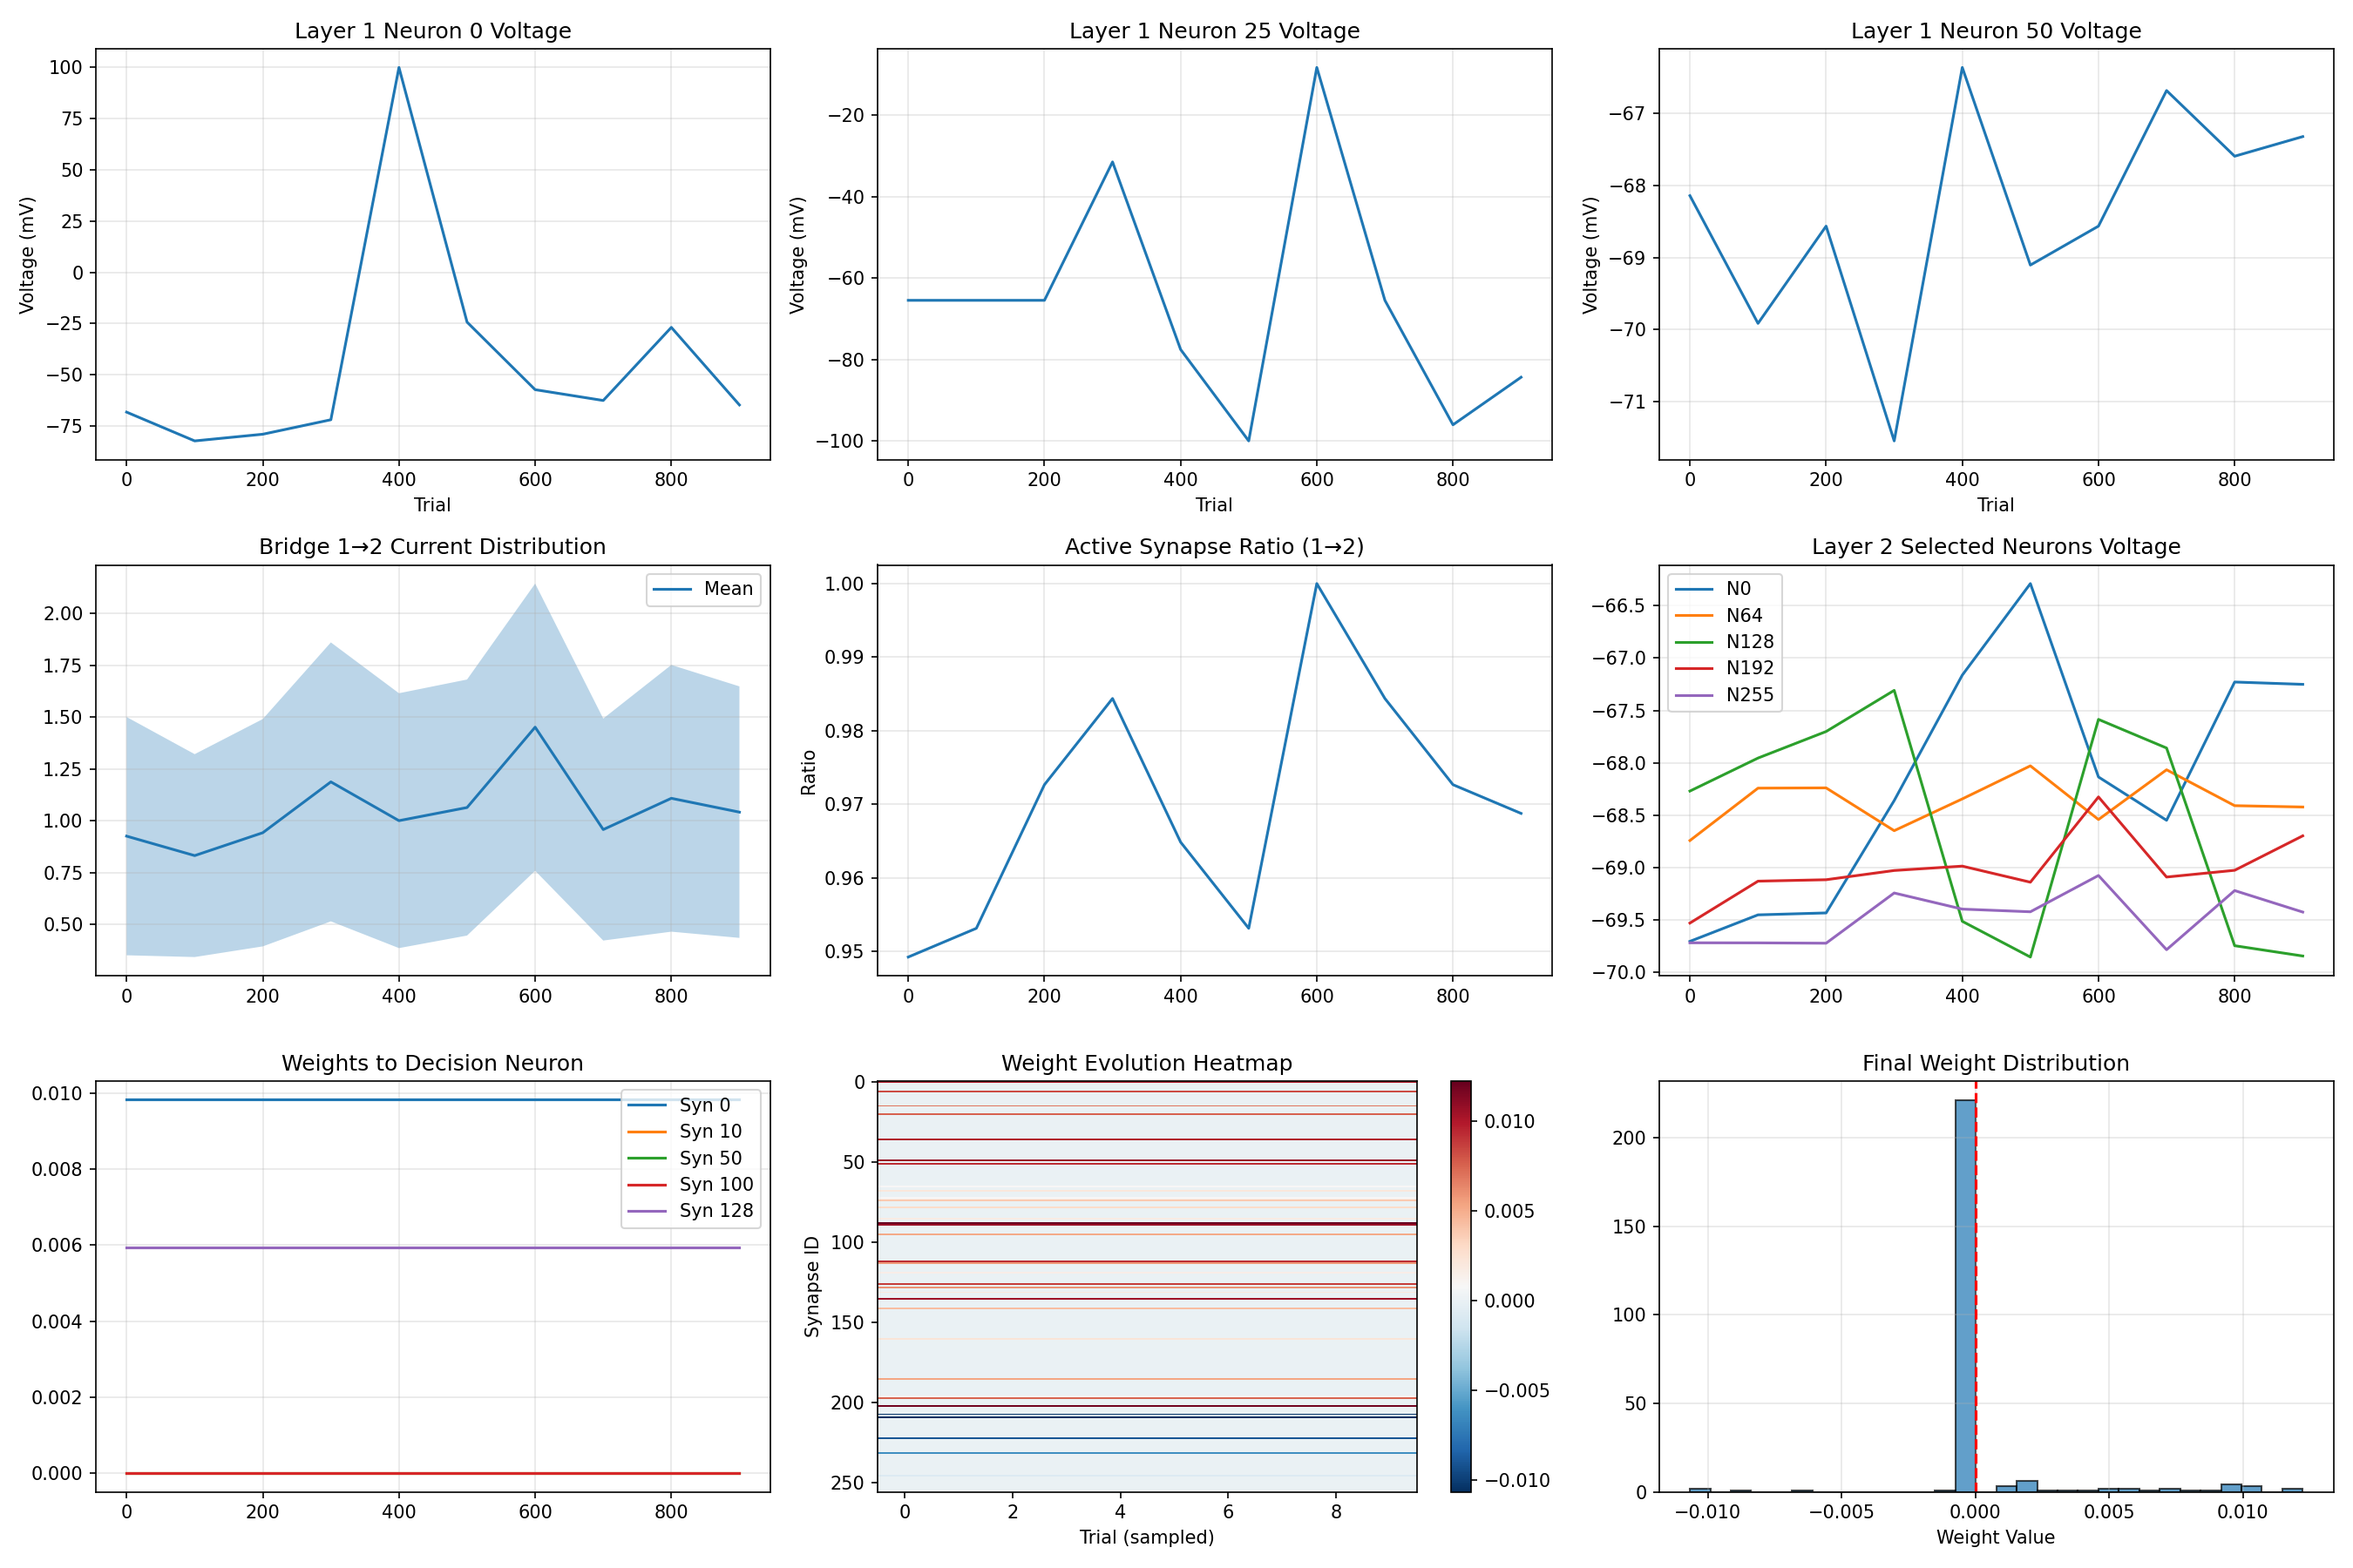
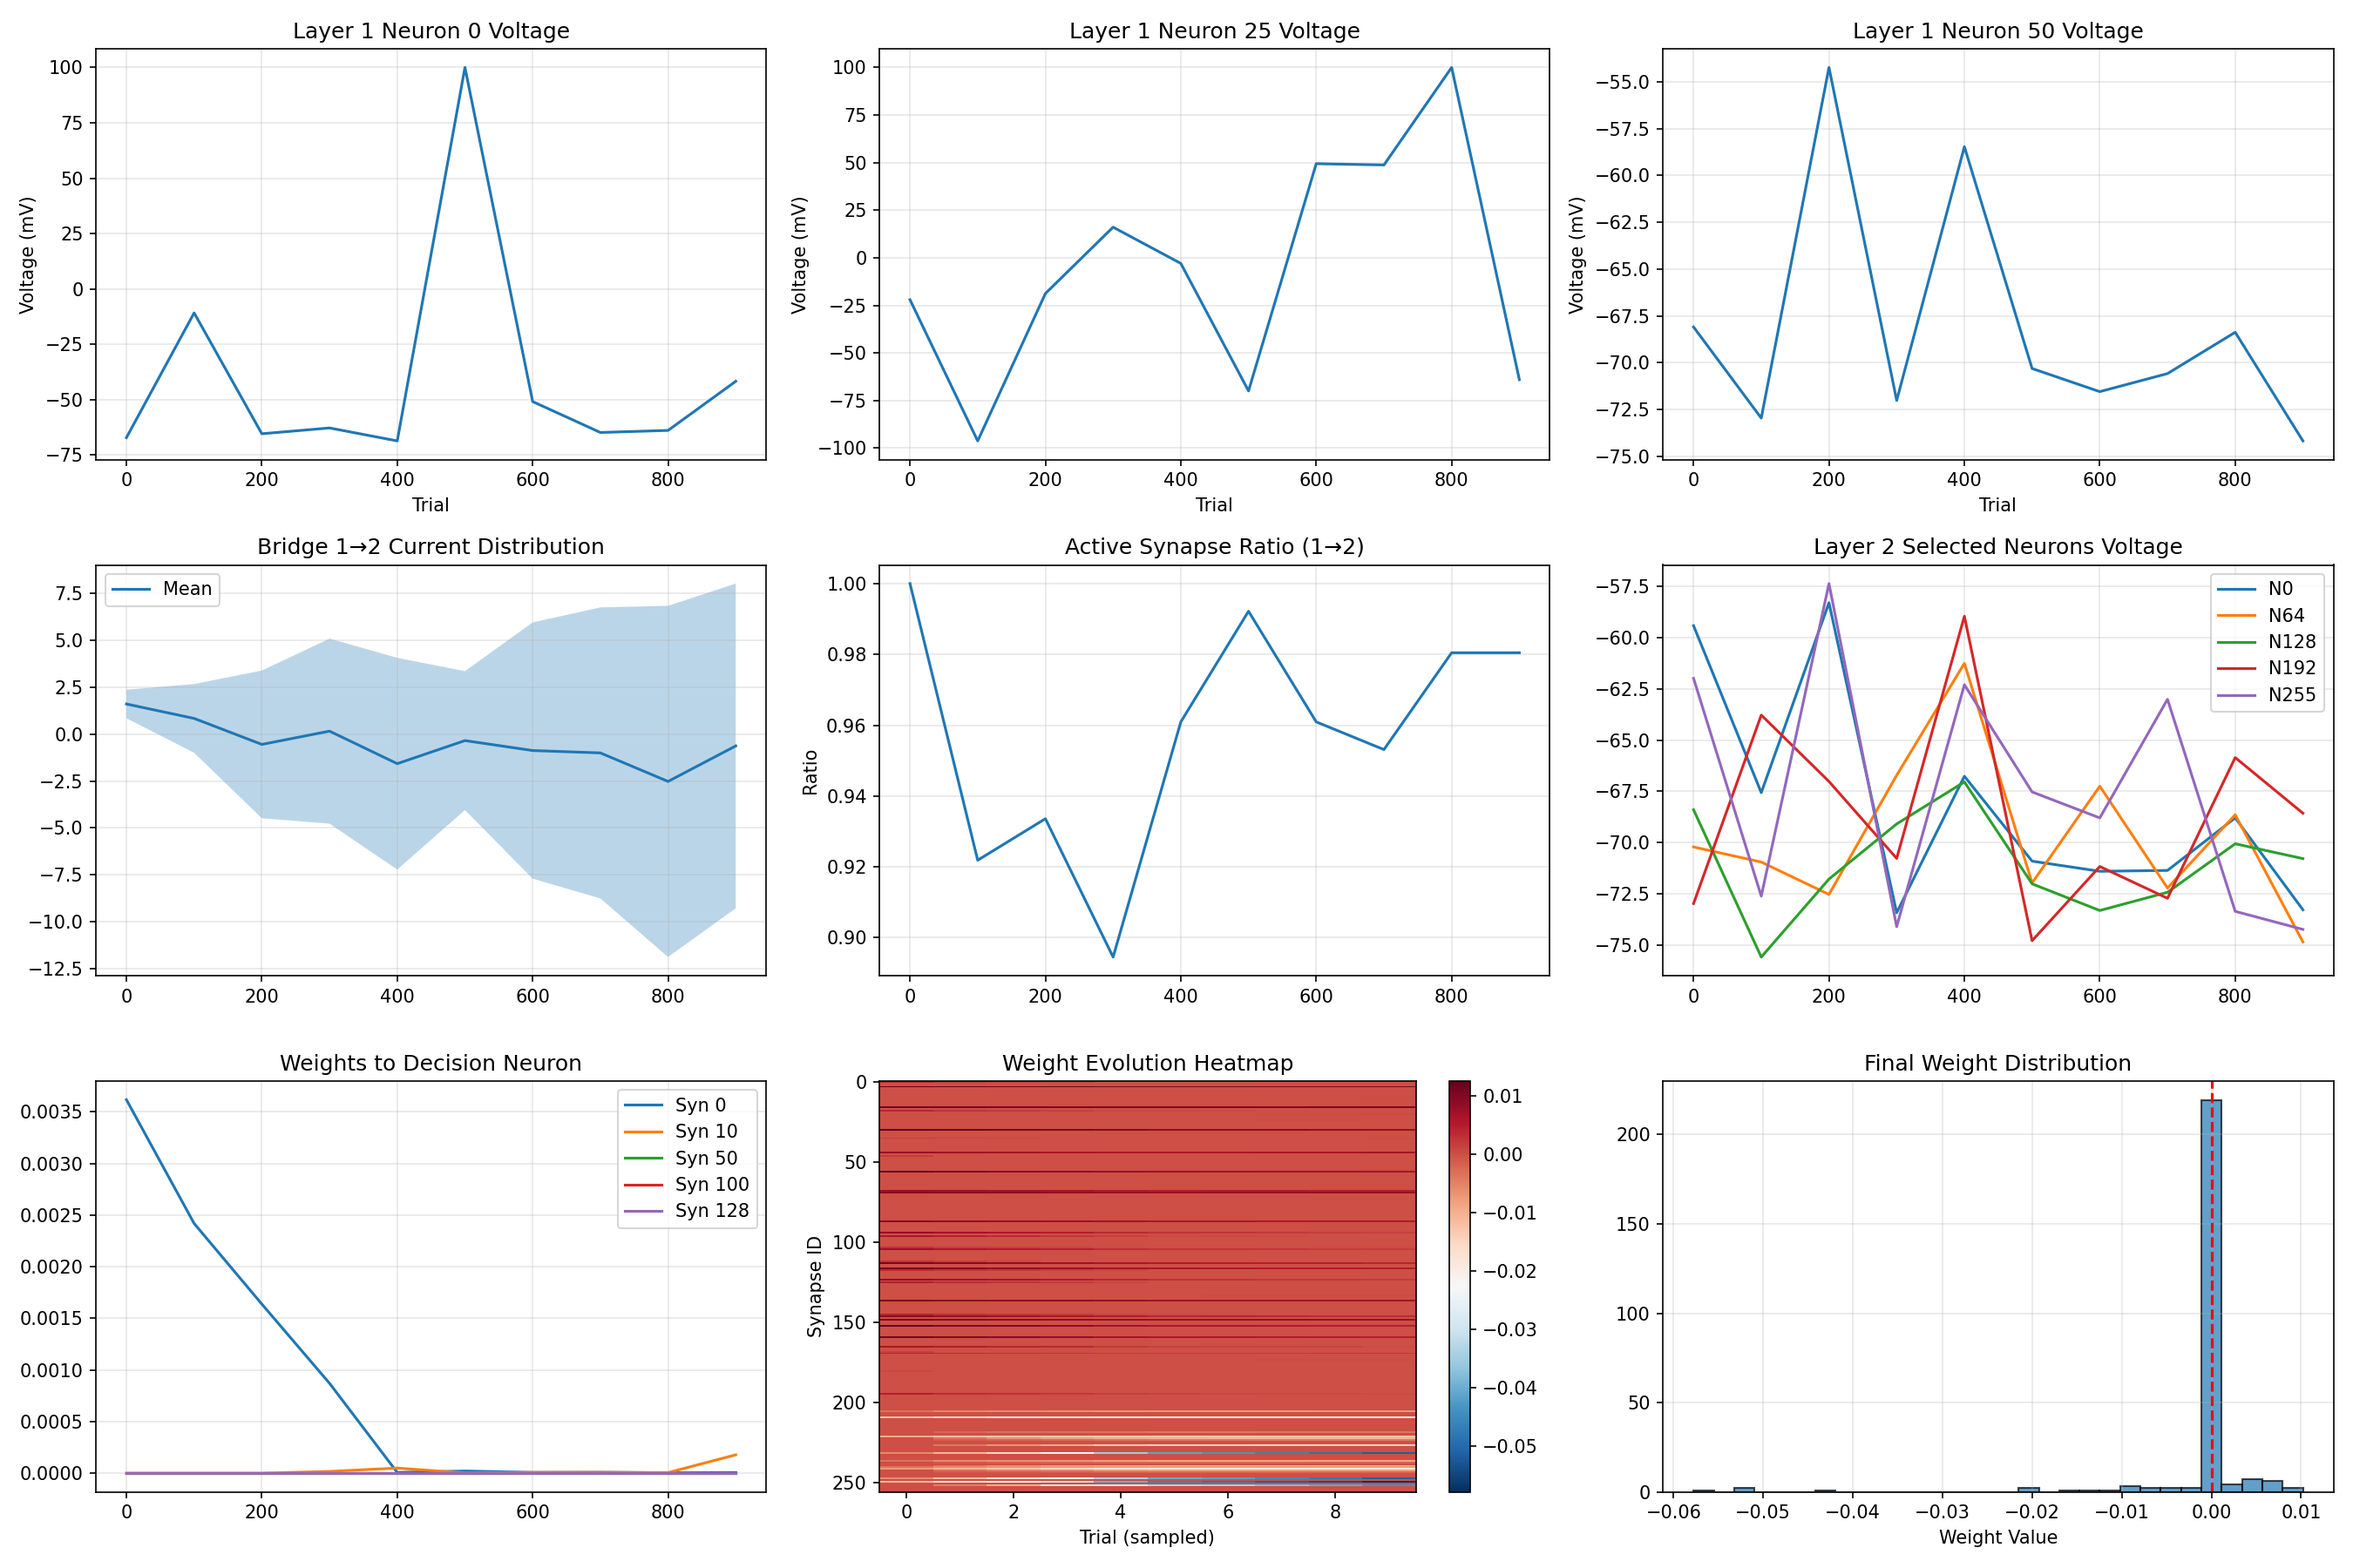
SNN

diff --git a/CNS/mechanisms/snn_synapse.py b/CNS/mechanisms/snn_synapse.py
@@ -35,8 +35,12 @@ class Synapse(nn.Module):
         self.max_weight = max_weight
 
         self.weight = nn.Parameter(torch.empty(self.n_post, self.n_pre))
-        nn.init.xavier_uniform_(self.weight)
-        self.weight.data *= 0.1
+        effective_n = max(1.0, self.n_pre * density)
+        w_scale = 10.0 / np.sqrt(effective_n)
+        nn.init.uniform_(self.weight, a=0.0, b=w_scale)
+        with torch.no_grad():
+            signs = torch.sign(self.neuron_type).unsqueeze(0)
+            self.weight.data *= signs
 
         mask = (torch.rand(self.n_post, self.n_pre) < density).float()
         self.register_buffer('mask', mask)
@@ -58,7 +62,7 @@ class Synapse(nn.Module):
         self.g_inh = None
 
         self.enable_plasticity = enable_plasticity
-        self.pruning_prob = sprouting_prob
+        self.sprouting_prob = sprouting_prob
         self.pruning_threshold = pruning_threshold
         self.target_density = density
 
@@ -124,23 +128,28 @@ class Synapse(nn.Module):
 
         self.spike_buffer[:, :, self.buffer_ptr] = pre_spikes
 
-        w_exc = torch.clamp(self.weight * self.mask, min=0)
-        w_inh = torch.clamp(self.weight * self.mask, max=0)
-
         read_indices = (self.buffer_ptr - self.delays) % self.max_delay_steps
         idx_tensor = read_indices.view(1, -1, 1).expand(batch_size, -1, 1)
         delayed_spikes = torch.gather(self.spike_buffer, 2, idx_tensor).squeeze(2)
 
         self.buffer_ptr = (self.buffer_ptr + 1) % self.max_delay_steps
 
-        g_exc_influx = torch.matmul(delayed_spikes, w_exc.T)
-        g_inh_influx = torch.matmul(delayed_spikes, w_inh.T)
+        w_abs = self.weight.abs() * self.mask
+
+        exc_mask = (self.neuron_type > 0).unsqueeze(0)
+        inh_mask = (self.neuron_type < 0).unsqueeze(0)
+
+        w_exc_magnitude = w_abs * exc_mask
+        w_inh_magnitude = w_abs * inh_mask
+
+        g_exc_influx = torch.matmul(delayed_spikes, w_exc_magnitude.T)
+        g_inh_influx = torch.matmul(delayed_spikes, w_inh_magnitude.T)
         self.g_exc = torch.clamp(self.g_exc * self.decay + g_exc_influx, min=0, max=50)
         self.g_inh = torch.clamp(self.g_inh * self.decay + g_inh_influx, min=-50, max=0)
 
-        g_inh_abs = self.g_inh.abs()
+        
         I_exc = self.g_exc * (self.e_exc - v_post)
-        I_inh = g_inh_abs * (self.e_inh - v_post)
+        I_inh = self.g_inh * (self.e_inh - v_post)
         
         self.I = I_exc + I_inh
         self.I = torch.clamp(self.I, min=-50.0, max=50.0)

diff --git a/CNS/mechanisms/snn_network.py b/CNS/mechanisms/snn_network.py
@@ -80,6 +80,15 @@ class IzhikevichLayer(nn.Module):
 
         self.refractory_counter = None
 
+        self.neuro_sensitivity = nn.Parameter(
+            torch.rand(n_neurons) * 1.5 + 0.1,
+            requires_grad=False
+        )
+        self.noise_level = nn.Parameter(
+            torch.rand(n_neurons) * 2.0 + 1.0,
+            requires_grad=False
+        )
+
         self.synapse = synapse
         
         self.I = None
@@ -100,18 +109,22 @@ class IzhikevichLayer(nn.Module):
             self.reset_state(total_input_current.shape[0], total_input_current.device)
         prev_spike = self.pre_spike if self.pre_spike is not None else torch.zeros_like(self.post_spike)
 
-        current_bias = 10.0
+        bias_effect = 5.0
         current_d = self.d
         current_b = self.b
         if neuromodulation_deltas:
             if "input_bias" in neuromodulation_deltas:
-                current_bias = neuromodulation_deltas["input_bias"]
+                global_bias = neuromodulation_deltas["input_bias"]
+                bias_effect = global_bias * self.neuro_sensitivity.to(total_input_current.device)
             if "d" in neuromodulation_deltas:
                 current_d = self.d + neuromodulation_deltas["d"]
             if "b" in neuromodulation_deltas:
                 current_b = self.b + neuromodulation_deltas["b"]
 
-        self.I = total_input_current + current_bias
+        batch_size = total_input_current.shape[0]
+        background_noise = torch.randn_like(total_input_current) * self.noise_level
+
+        self.I = total_input_current + bias_effect + background_noise
         if self.synapse:
             recurrent_current = self.synapse(prev_spike, self.v)
             self.I = self.I + recurrent_current

diff --git a/CNS/mechanisms/neuromodulation/dopamine.py b/CNS/mechanisms/neuromodulation/dopamine.py
@@ -18,7 +18,7 @@ class DopamineSystem:
         self.neuron_effects = {}
         self.synapse_effects = {}
 
-        self.add_neuron_effect("input_bias", coefficient=0.0)
+        self.add_neuron_effect("input_bias", coefficient=10.0)
         self.add_synapse_effect("lr_scale", coefficient=0.0)
 
     def add_neuron_effect(self, param_name, coefficient):
